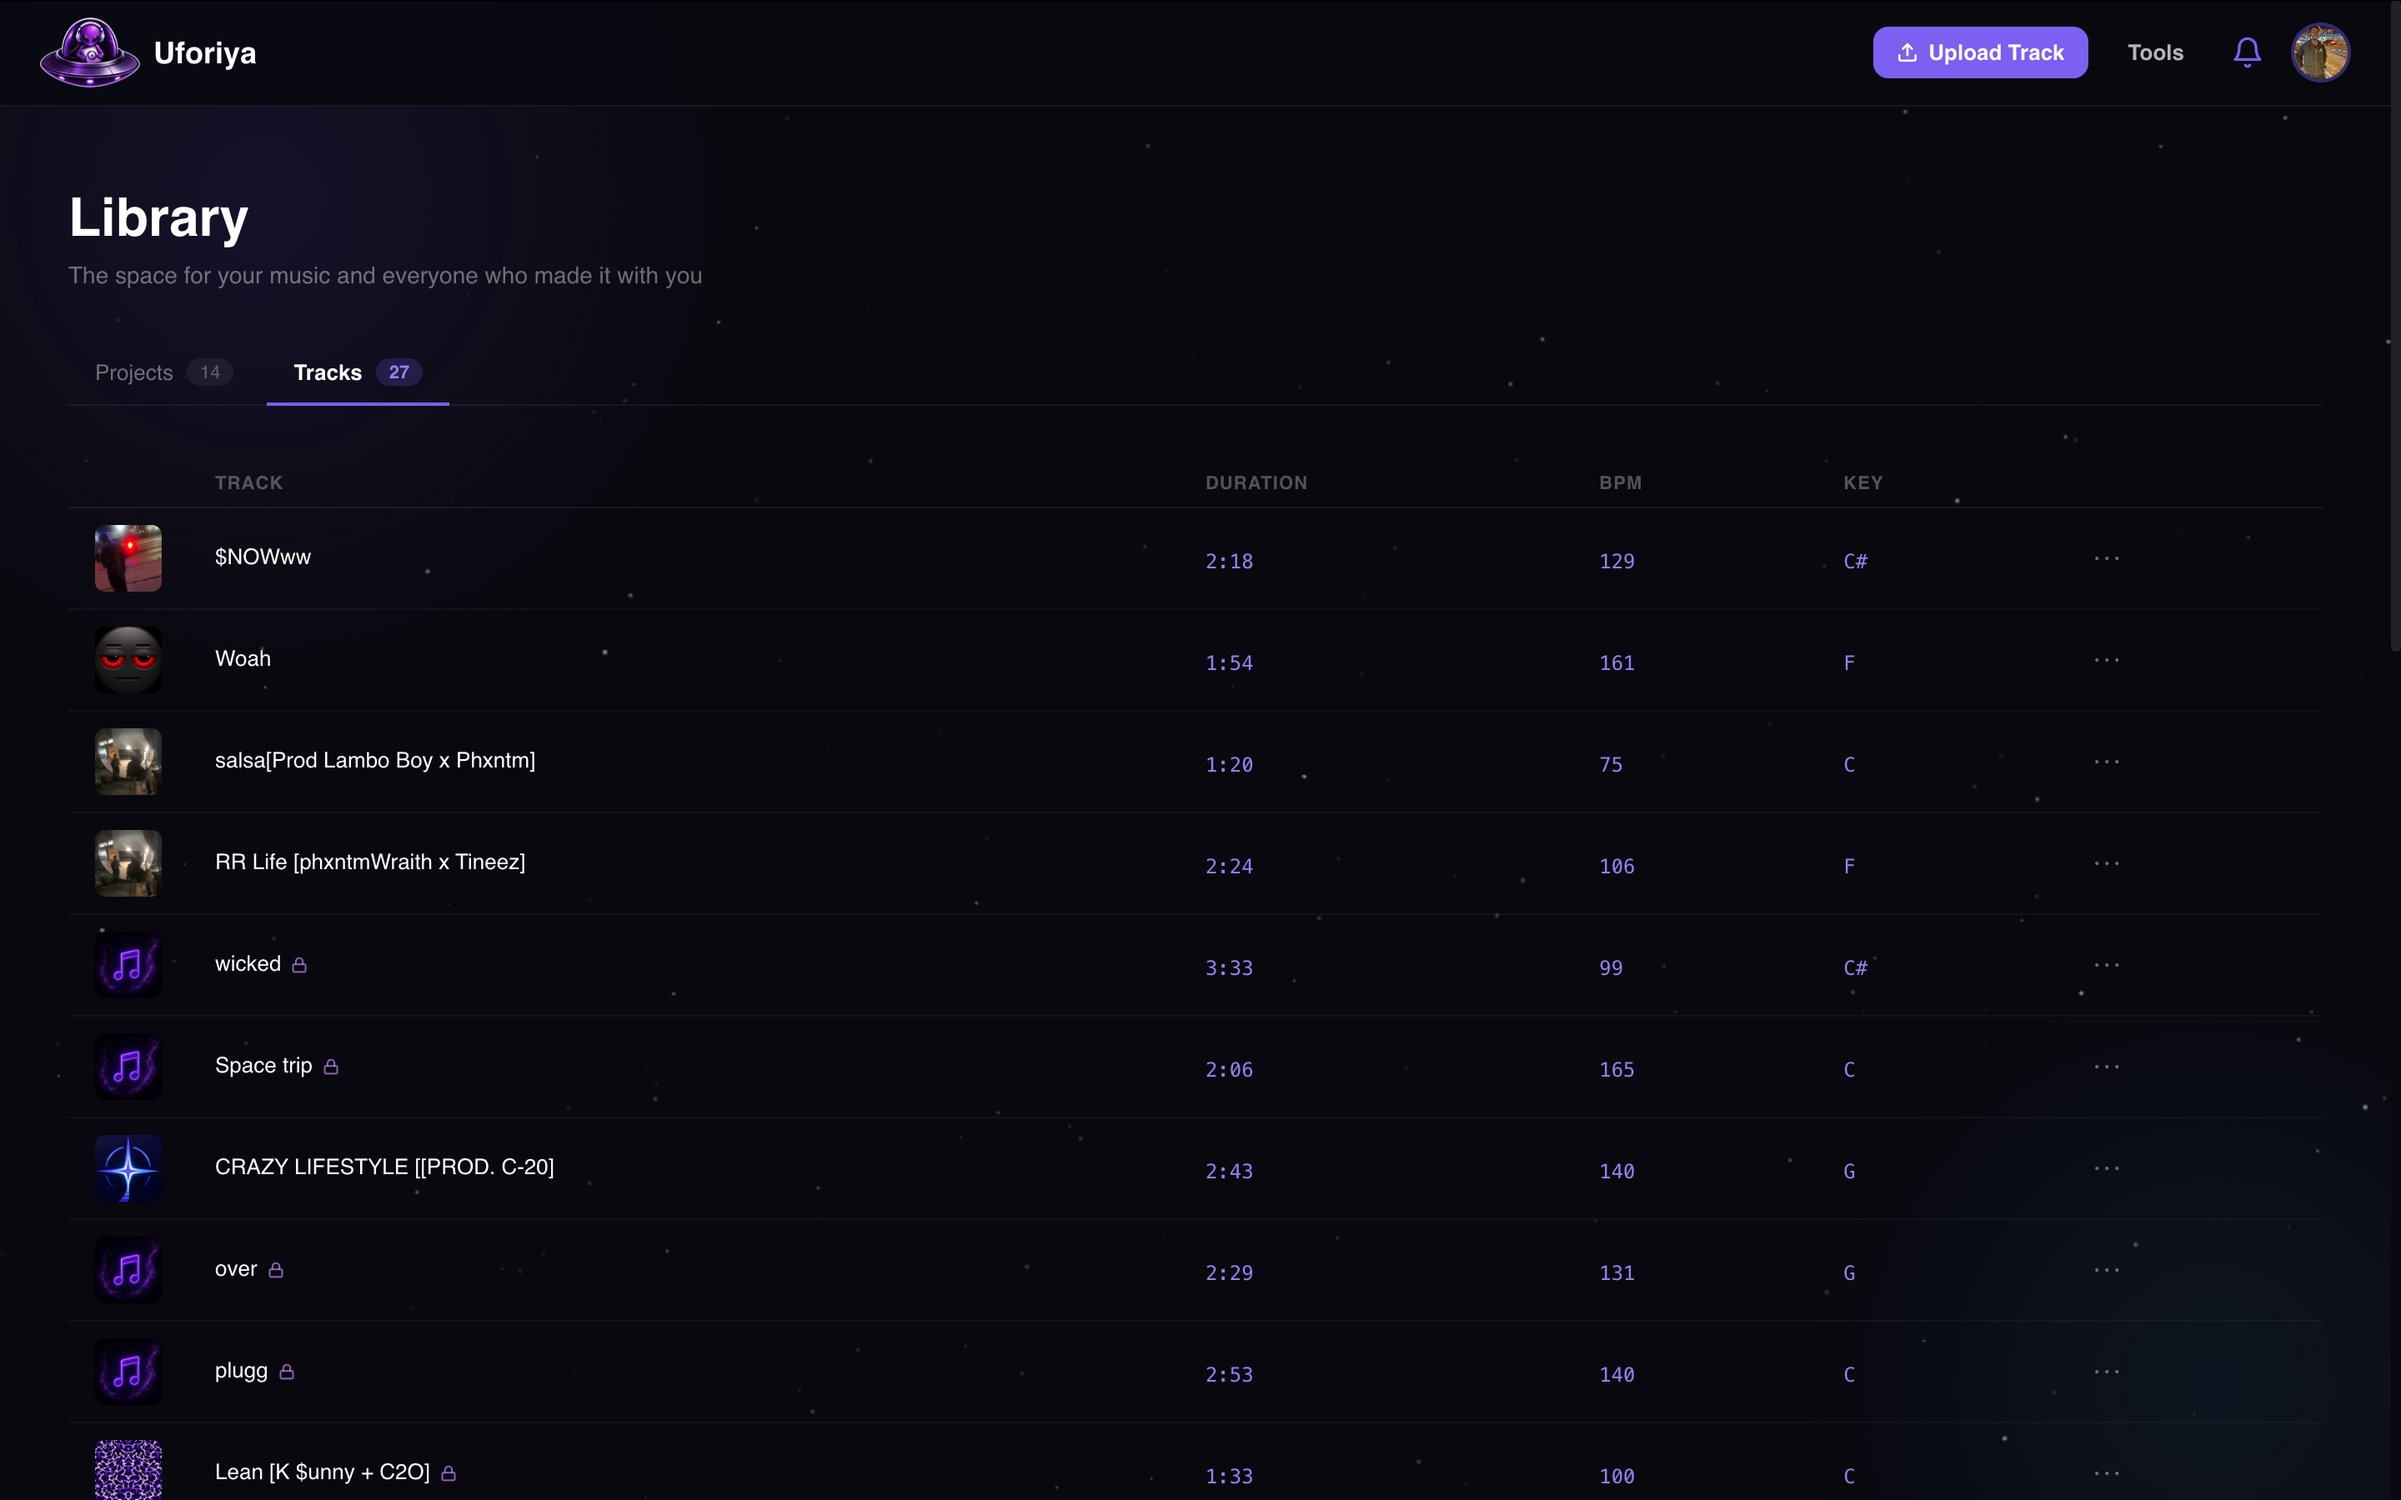
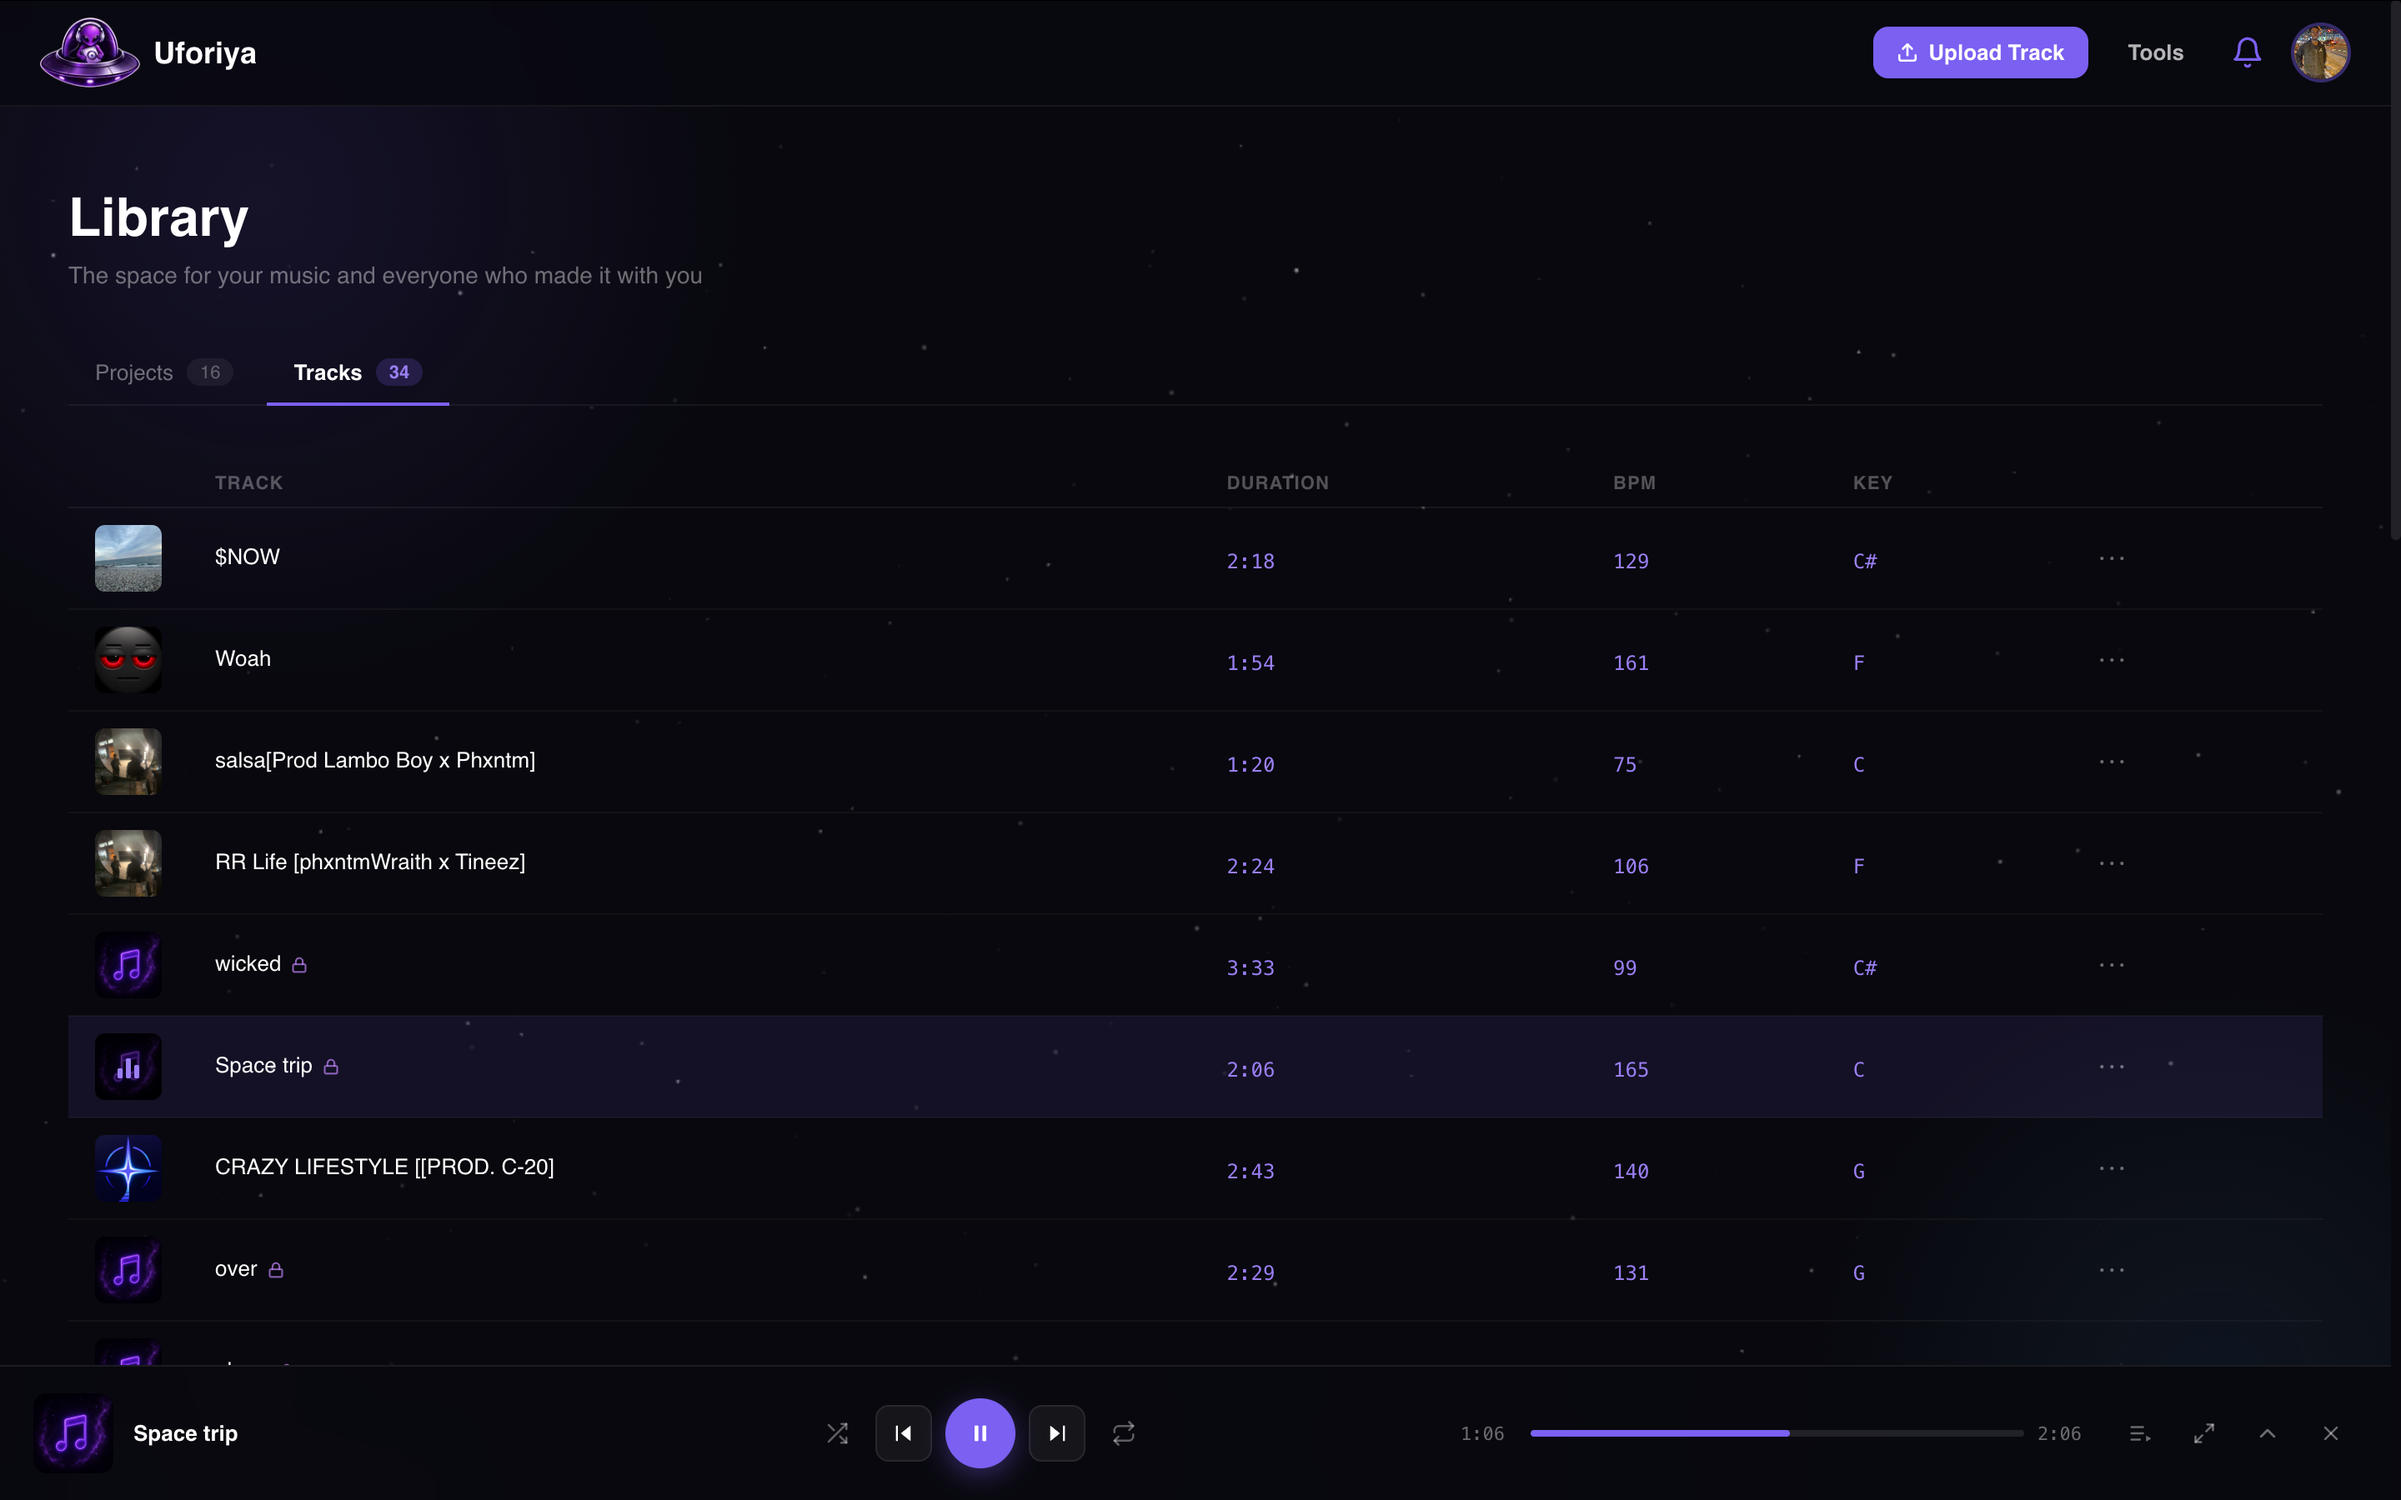
Add mobile showcase section and update plan limits
Add a 'handheld' section between the app showcase and the audio tools:
four phone screenshots on a shallow arc that straighten and lift on
hover, flattening into a snap-scrolling strip below 900px.

Update plan limits across the pricing cards, the FAQ and the JSON-LD:
Free is 25 tracks with unlimited versions inside 10GB, Pro is unlimited
tracks and versions inside 1TB. Drop the pricing grid to two columns now
that there are two plans, and bump the stylesheet cache buster.

diff --git a/index.html b/index.html
@@ -43,7 +43,7 @@
   <!-- Phosphor Icons -->
   <script src="https://unpkg.com/@phosphor-icons/web@2.1.1/src/index.js" defer></script>
 
-  <link rel="stylesheet" href="style.css?v=4" />
+  <link rel="stylesheet" href="style.css?v=5" />
 
   <!-- ═══════════════════════════════════════════
        STRUCTURED DATA
@@ -97,14 +97,14 @@
             "name": "Free",
             "price": "0",
             "priceCurrency": "CAD",
-            "description": "30 tracks, 10 versions per track, unlimited collaborators."          },
+            "description": "25 tracks, unlimited versions per track, unlimited collaborators, 10GB of storage."
+            },
           {
             "@type": "Offer",
             "name": "Pro",
             "price": "12.99",
             "priceCurrency": "CAD",
-            "description": "Unlimited tracks, unlimited versions, daily analytics and granular download control."  
-           }
+            "description": "Unlimited tracks, unlimited versions per track, 1TB of storage, daily analytics and granular download control."           }
         ]
       },
       {
@@ -164,7 +164,7 @@
             "name": "Is Uforiya free?",
             "acceptedAnswer": {
               "@type": "Answer",
-              "text": "The free plan covers 30 tracks, 10 versions per track and unlimited collaborators, with no card needed. Pro removes the track and version limits entirely and adds analytics. Collaboration itself is on every plan, including the free one."
+              "text": "The free plan covers 25 tracks, unlimited versions per track and unlimited collaborators inside 10GB of storage, with no card needed. Pro raises that ceiling to 1TB with unlimited tracks and adds analytics and granular download control. Collaboration itself is on every plan, including the free one."
             }
           },
           {
@@ -383,6 +383,76 @@
           Create your free account
         </a>
       </div>
+    </div>
+  </section>
+
+  <!-- ═══════════════════════════════════════════
+       HANDHELD
+       Four phone shots on a shallow arc, tilted out from the centre.
+       Hover straightens and lifts one. Below 900px the arc flattens into
+       a snap scrolling strip, so it is swiped rather than hovered.
+  ═══════════════════════════════════════════ -->
+  <section class="section handheld" id="mobile">
+    <div class="section-inner">
+      <div class="section-head section-head-wide">
+        <p class="eyebrow">On a small screen</p>
+        <h2 class="section-title">The whole thing fits in a pocket</h2>
+        <p class="section-sub">
+          Open <a href="https://uforiya.space" class="inline-link" target="_blank" rel="noopener">uforiya.space</a>
+          in your phone browser and the library is already there: projects, tracks, versions, the
+          player and every comment pinned to its timestamp. Nothing to install, nothing to keep
+          signed in separately.
+        </p>
+      </div>
+
+      <div class="phone-arc">
+
+        <figure class="phone">
+          <div class="phone-frame">
+            <img src="images/dashboardmobile.PNG" alt="The Uforiya library on a phone, Projects tab, showing project cover cards labelled playlist and album" loading="lazy" />
+          </div>
+          <figcaption>
+            <span class="shot-title">Library</span>
+            <span class="shot-desc">Every project you own or are on.</span>
+          </figcaption>
+        </figure>
+
+        <figure class="phone">
+          <div class="phone-frame">
+            <img src="images/dashboardtracksmobile.PNG" alt="The Uforiya library on a phone, Tracks tab, listing tracks with durations and a lock icon on the private ones" loading="lazy" />
+          </div>
+          <figcaption>
+            <span class="shot-title">Tracks</span>
+            <span class="shot-desc">Every track, duration read for you.</span>
+          </figcaption>
+        </figure>
+
+        <figure class="phone">
+          <div class="phone-frame">
+            <img src="images/projectpagemobile.PNG" alt="A private Uforiya project on a phone, showing cover art, track count, total duration and the track list" loading="lazy" />
+          </div>
+          <figcaption>
+            <span class="shot-title">Project</span>
+            <span class="shot-desc">Cover, runtime and the full tracklist.</span>
+          </figcaption>
+        </figure>
+
+        <figure class="phone">
+          <div class="phone-frame">
+            <img src="images/audioplayermobile.PNG" alt="The Uforiya player on a phone, showing waveform playback with BPM and key, and a comment pinned to 0:46" loading="lazy" />
+          </div>
+          <figcaption>
+            <span class="shot-title">Player</span>
+            <span class="shot-desc">Waveform, BPM, key and timestamped notes.</span>
+          </figcaption>
+        </figure>
+
+      </div>
+
+      <p class="phone-note">
+        <span class="phone-ping" aria-hidden="true"></span>
+        Same account, same files. Start the track at the desk, leave the notes on the bus.
+      </p>
     </div>
   </section>
 
@@ -725,8 +795,9 @@
           <p class="plan-period">Free forever</p>
           <p class="plan-desc">Enough to run a real project and see if this fits how you work.</p>
           <ul class="plan-features">
-            <li>30 tracks</li>
-            <li>10 versions per track</li>
+            <li>25 tracks</li>
+            <li>Unlimited versions per track</li>
+            <li>10GB of storage</li>
             <li>Unlimited collaborators</li>
             <li>All seven audio tools</li>
             <li>Last 5 plays of analytics</li>
@@ -743,10 +814,11 @@
             <span class="price-amount" data-monthly="$12.99" data-yearly="$8.33">$12.99</span>
           </div>
           <p class="plan-period" data-monthly="per month CAD" data-yearly="per month CAD, billed yearly">per month CAD</p>
-          <p class="plan-desc">For artists and studios running several records at once.</p>
+          <p class="plan-desc">For artists and studios keeping full sessions and stems, not just bounces.</p>
           <ul class="plan-features">
             <li>Unlimited tracks</li>
             <li>Unlimited versions per track</li>
+            <li>1TB of storage</li>
             <li>Unlimited collaborators</li>
             <li>Higher daily tool limit</li>
             <li>Daily, weekly and monthly analytics</li>
@@ -820,7 +892,7 @@
         <details class="faq-item">
           <summary><span>Is Uforiya free?</span></summary>
           <div class="faq-answer">
-            <p>The free plan covers 30 tracks, 10 versions per track and unlimited collaborators, with no card needed. Pro removes the track and version limits entirely and adds analytics. Collaboration itself is on every plan, including the free one.</p>          
+            <p>The free plan covers 25 tracks, unlimited versions per track and unlimited collaborators inside 10GB of storage, with no card needed. Pro raises that ceiling to 1TB with unlimited tracks and adds analytics and granular download control. Collaboration itself is on every plan, including the free one.</p>          
           </div>
         </details>
 

diff --git a/style.css b/style.css
@@ -1147,9 +1147,10 @@ a { color: inherit; }
 
 .pricing-grid {
   display: grid;
-  grid-template-columns: repeat(3, 1fr);
+  grid-template-columns: repeat(2, 1fr);
   gap: 16px;
   align-items: stretch;
+  max-width: 760px;
 }
 
 .plan {
@@ -1732,6 +1733,149 @@ a { color: inherit; }
   border-top: 1px solid var(--line);
   width: 100%;
   max-width: 320px;
+}
+
+/* ═══════════════════════════════════════════════
+   HANDHELD
+   The arc is four figures in a grid, each pushed down and rotated by its
+   position, so the two outer ones sit lower and lean away. Hover pulls one
+   upright and forward. Rotations can reach past the content column, so the
+   section clips its own overflow.
+═══════════════════════════════════════════════ */
+
+.handheld { overflow: hidden; }
+
+.phone-arc {
+  position: relative;
+  display: grid;
+  grid-template-columns: repeat(4, 1fr);
+  gap: 20px;
+  align-items: end;
+  padding-top: 26px;
+}
+
+/* Same glow that sits under the hero shot, widened for the row */
+.phone-arc::before {
+  content: '';
+  position: absolute;
+  left: 50%;
+  top: 6%;
+  width: 84%;
+  height: 68%;
+  transform: translateX(-50%);
+  background: radial-gradient(ellipse at center, rgba(123, 95, 245, 0.2) 0%, transparent 70%);
+  filter: blur(40px);
+  pointer-events: none;
+  z-index: -1;
+}
+
+.phone {
+  position: relative;
+  margin: 0;
+  transition: transform 0.45s cubic-bezier(0.2, 0.7, 0.3, 1);
+}
+
+.phone:nth-child(1) { transform: translateY(30px) rotate(-4.5deg); }
+.phone:nth-child(2) { transform: translateY(6px)  rotate(-1.5deg); }
+.phone:nth-child(3) { transform: translateY(6px)  rotate(1.5deg); }
+.phone:nth-child(4) { transform: translateY(30px) rotate(4.5deg); }
+
+/* Later than the nth rules, so it wins on equal specificity */
+.phone:hover {
+  transform: translateY(-12px) rotate(0deg);
+  z-index: 2;
+}
+
+.phone-frame {
+  position: relative;
+  padding: 6px;
+  border-radius: 30px;
+  background: linear-gradient(165deg, rgba(255, 255, 255, 0.15), rgba(255, 255, 255, 0.03));
+  box-shadow:
+    0 0 0 1px rgba(123, 95, 245, 0.16),
+    0 28px 56px rgba(0, 0, 0, 0.62);
+  transition: box-shadow 0.35s ease;
+}
+
+.phone:hover .phone-frame {
+  box-shadow:
+    0 0 0 1px rgba(123, 95, 245, 0.4),
+    0 36px 72px rgba(0, 0, 0, 0.7),
+    0 0 46px rgba(123, 95, 245, 0.18);
+}
+
+.phone-frame img {
+  width: 100%;
+  height: auto;
+  border-radius: 24px;
+  background: #000;
+}
+
+.phone figcaption {
+  display: flex;
+  flex-direction: column;
+  gap: 3px;
+  padding-top: 16px;
+  text-align: center;
+}
+
+.phone .shot-title { font-size: 14.5px; }
+.phone .shot-desc  { font-size: 12.5px; line-height: 1.5; }
+
+.phone-note {
+  display: flex;
+  align-items: center;
+  justify-content: center;
+  gap: 10px;
+  margin-top: 46px;
+  font-size: 13.5px;
+  color: var(--ink-3);
+  text-align: center;
+}
+
+.phone-ping {
+  flex-shrink: 0;
+  width: 5px;
+  height: 5px;
+  border-radius: 50%;
+  background: var(--cyan);
+  box-shadow: 0 0 8px rgba(0, 240, 255, 0.8);
+}
+
+/* ── Arc flattens into a swipeable strip ──
+   The negative margin lets the strip bleed to the screen edges, so the
+   fourth phone is visibly cut off and reads as scrollable. */
+@media (max-width: 900px) {
+  .phone-arc {
+    display: flex;
+    gap: 14px;
+    padding: 4px var(--gutter) 10px;
+    margin-inline: calc(var(--gutter) * -1);
+    overflow-x: auto;
+    scroll-snap-type: x proximity;
+    scrollbar-width: none;
+    -webkit-overflow-scrolling: touch;
+  }
+
+  .phone-arc::-webkit-scrollbar { display: none; }
+  .phone-arc::before { display: none; }
+
+  .phone-arc > .phone {
+    flex: 0 0 58%;
+    max-width: 250px;
+    scroll-snap-align: center;
+    transform: none;
+  }
+
+  .phone-arc > .phone:hover { transform: none; }
+
+  .phone-frame { padding: 5px; border-radius: 26px; }
+  .phone-frame img { border-radius: 21px; }
+}
+
+@media (max-width: 480px) {
+  .phone-arc > .phone { flex: 0 0 70%; }
+  .phone-note { margin-top: 34px; font-size: 12.5px; }
 }
 
 /* ═══════════════════════════════════════════════
